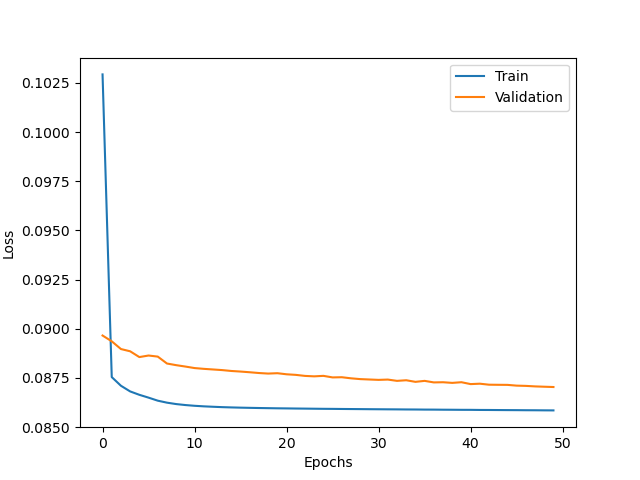
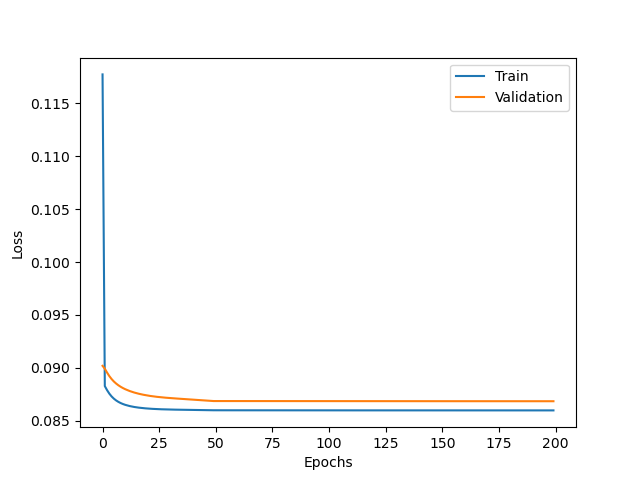
4 var ls

diff --git a/predictAutoencoder.py b/predictAutoencoder.py
@@ -31,16 +31,14 @@ def assessAE(chkptFile):
     X2 = []
     X3 = []
     X4 = []
-    X5 = []
     for f in dataset.files:
         ls = predict.reduce(os.path.join(DATADIR,f))
         X1.append(ls[0].item())
         X2.append(ls[1].item())
         X3.append(ls[2].item())
         X4.append(ls[3].item())
-        X5.append(ls[4].item())
 
-    df = pd.DataFrame(data=list(zip(X1,X2,X3,X4,X5)),columns=["X1","X2","X3","X4","X5"])
+    df = pd.DataFrame(data=list(zip(X1,X2,X3,X4)),columns=["X1","X2","X3","X4"])
     plt = sns.pairplot(df, plot_kws={"alpha":0.2})
     plt.savefig(os.path.join(RESULTSDIR,"assessLatentSpace.png"))    
 

diff --git a/modelLib.py b/modelLib.py
@@ -49,8 +49,8 @@ class autoencoder(nn.Module):
         super().__init__()
         self.down1 = encodeBlock(1,3) # 1x64x64 > 3x16x16
         self.down2 = encodeBlock(3,5) # 3x16x16 > 5x4x4
-        self.down3 = encodeBlock(5,5, last=True) # 5x4x4 > 2x1x1
-        self.up1 = decodeBlock(5,5) 
+        self.down3 = encodeBlock(5,4, last=True) # 5x4x4 > Nx1x1
+        self.up1 = decodeBlock(4,5) 
         self.up2 = decodeBlock(5,3) 
         self.up3 = decodeBlock(3,1, last=True) 
 

diff --git a/environment.py b/environment.py
@@ -3,7 +3,7 @@ DATADIR = "./data"
 RESULTSDIR = "./results"
 BATCHSIZE = 4
 EPOCH0 = 0
-NEPOCHS = 50
+NEPOCHS = 200
 SAVEINTERVAL = 10
 RANDOMSEED = 42
 DATALIMIT = None
